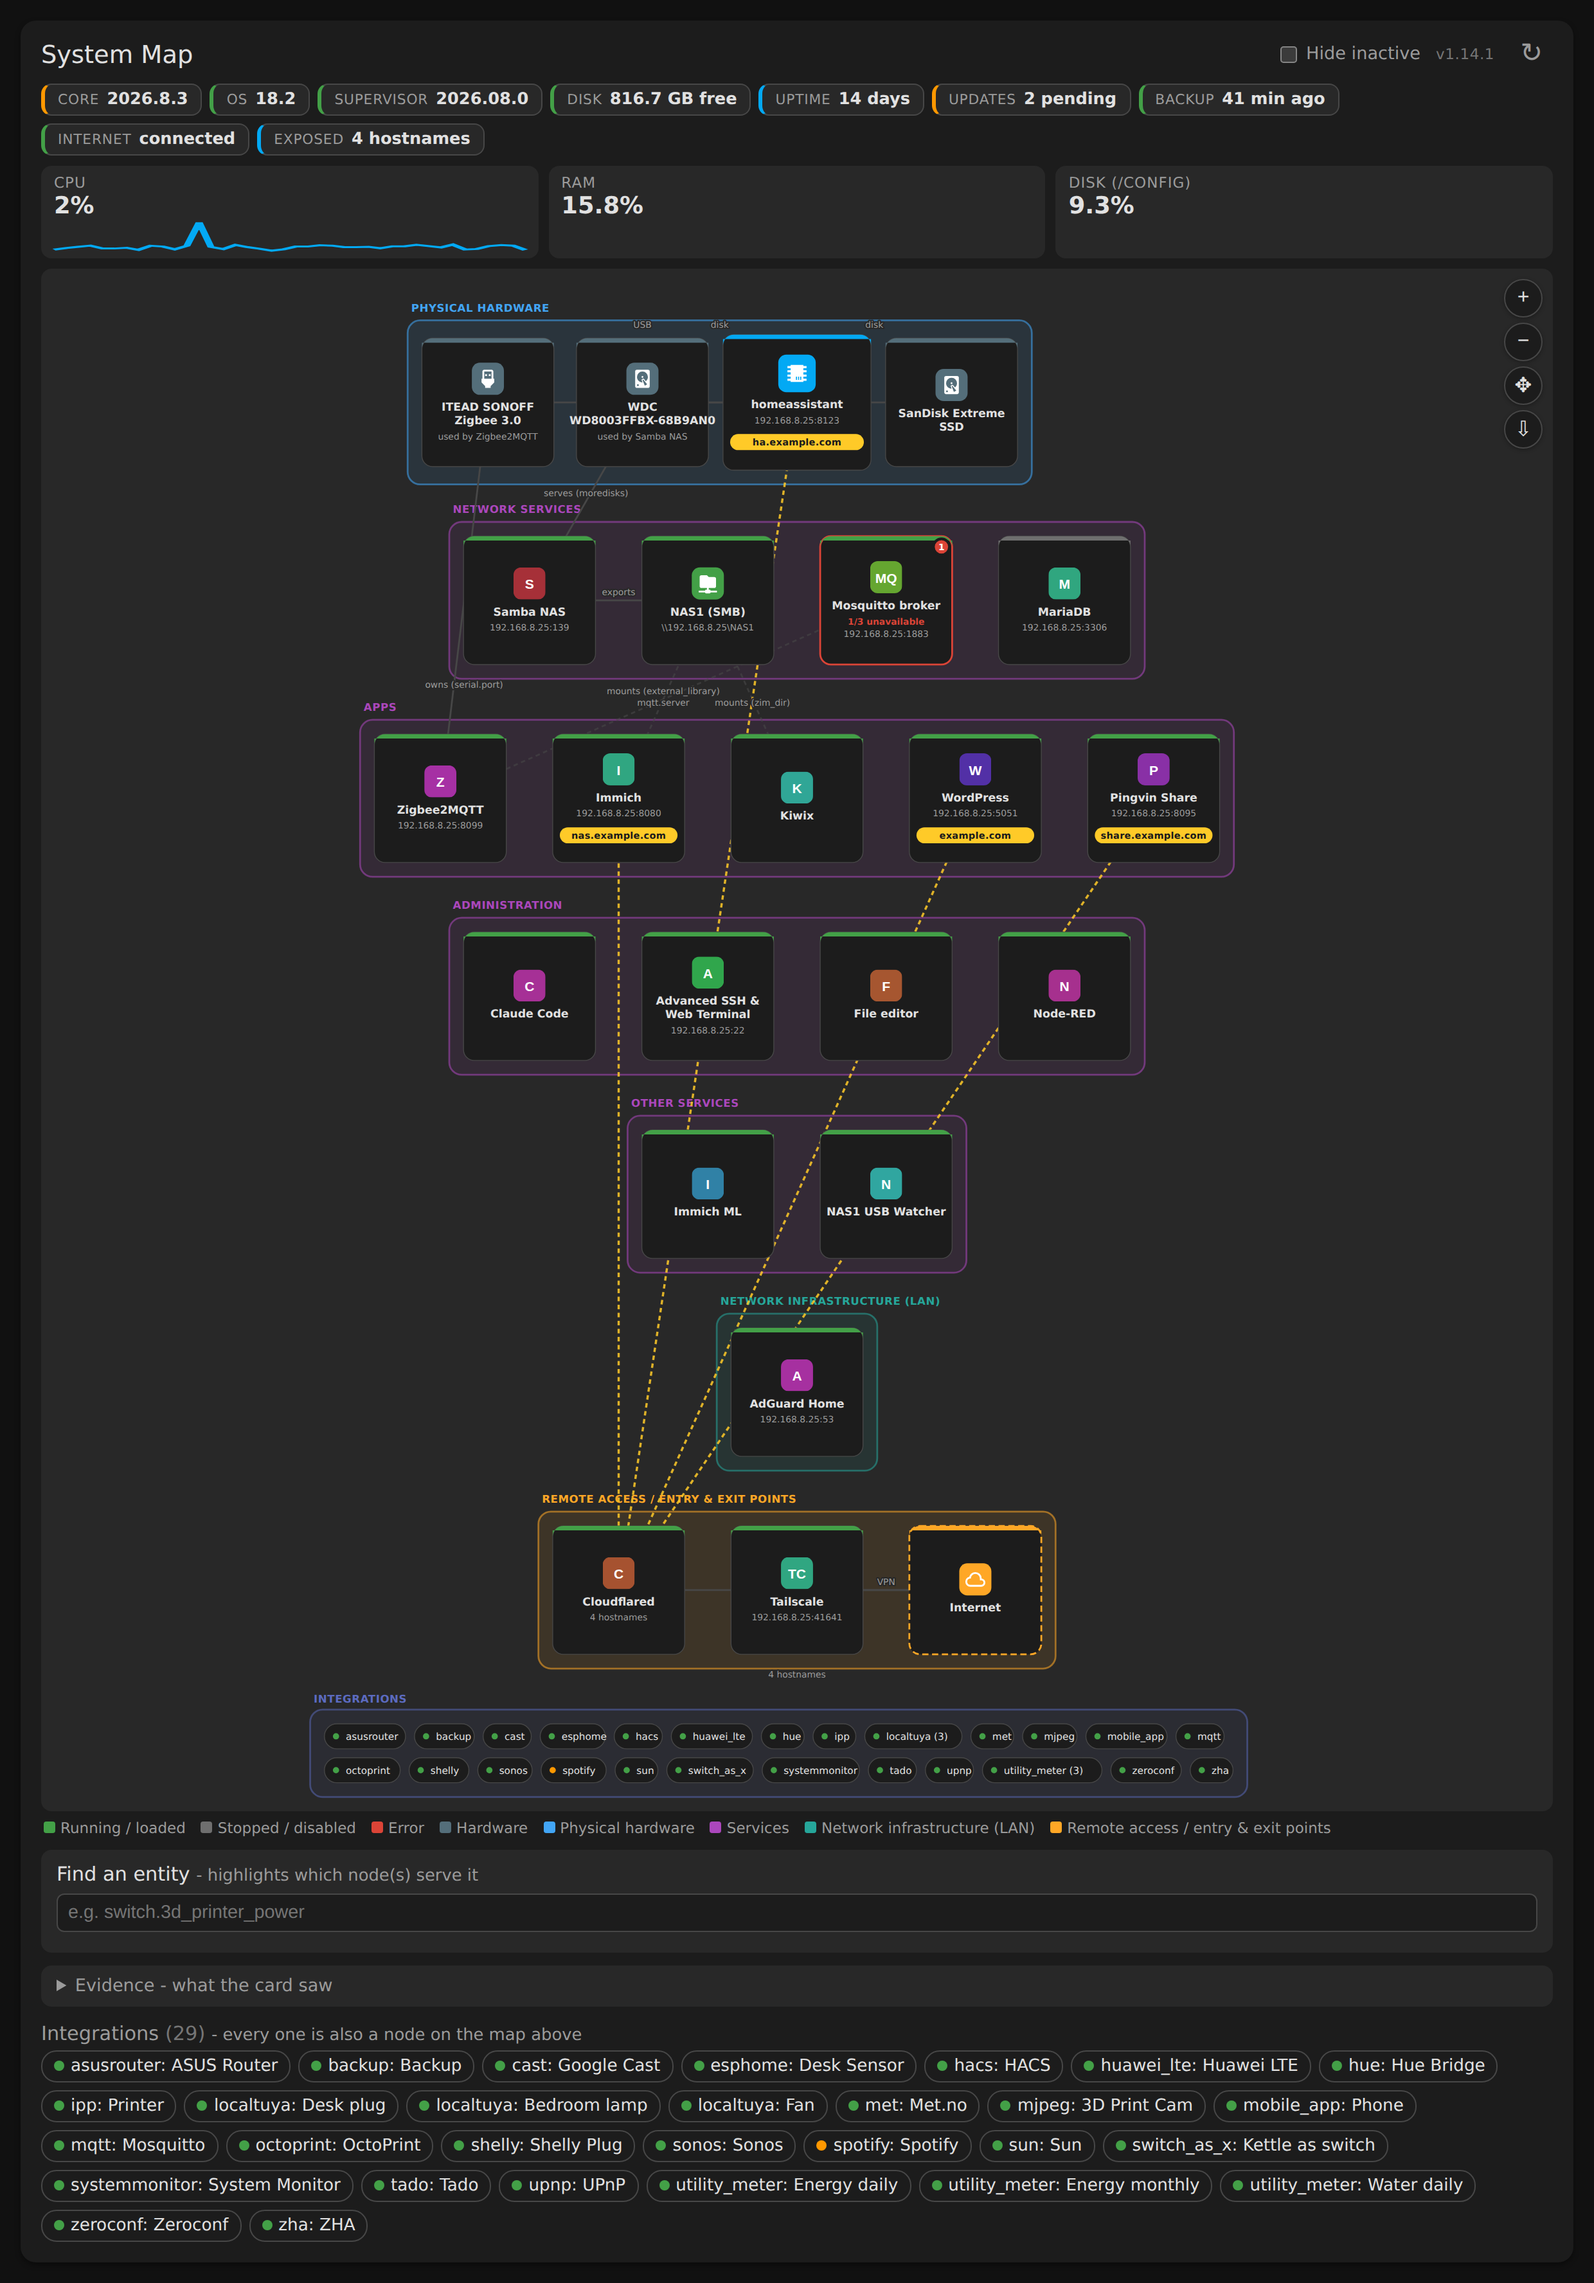
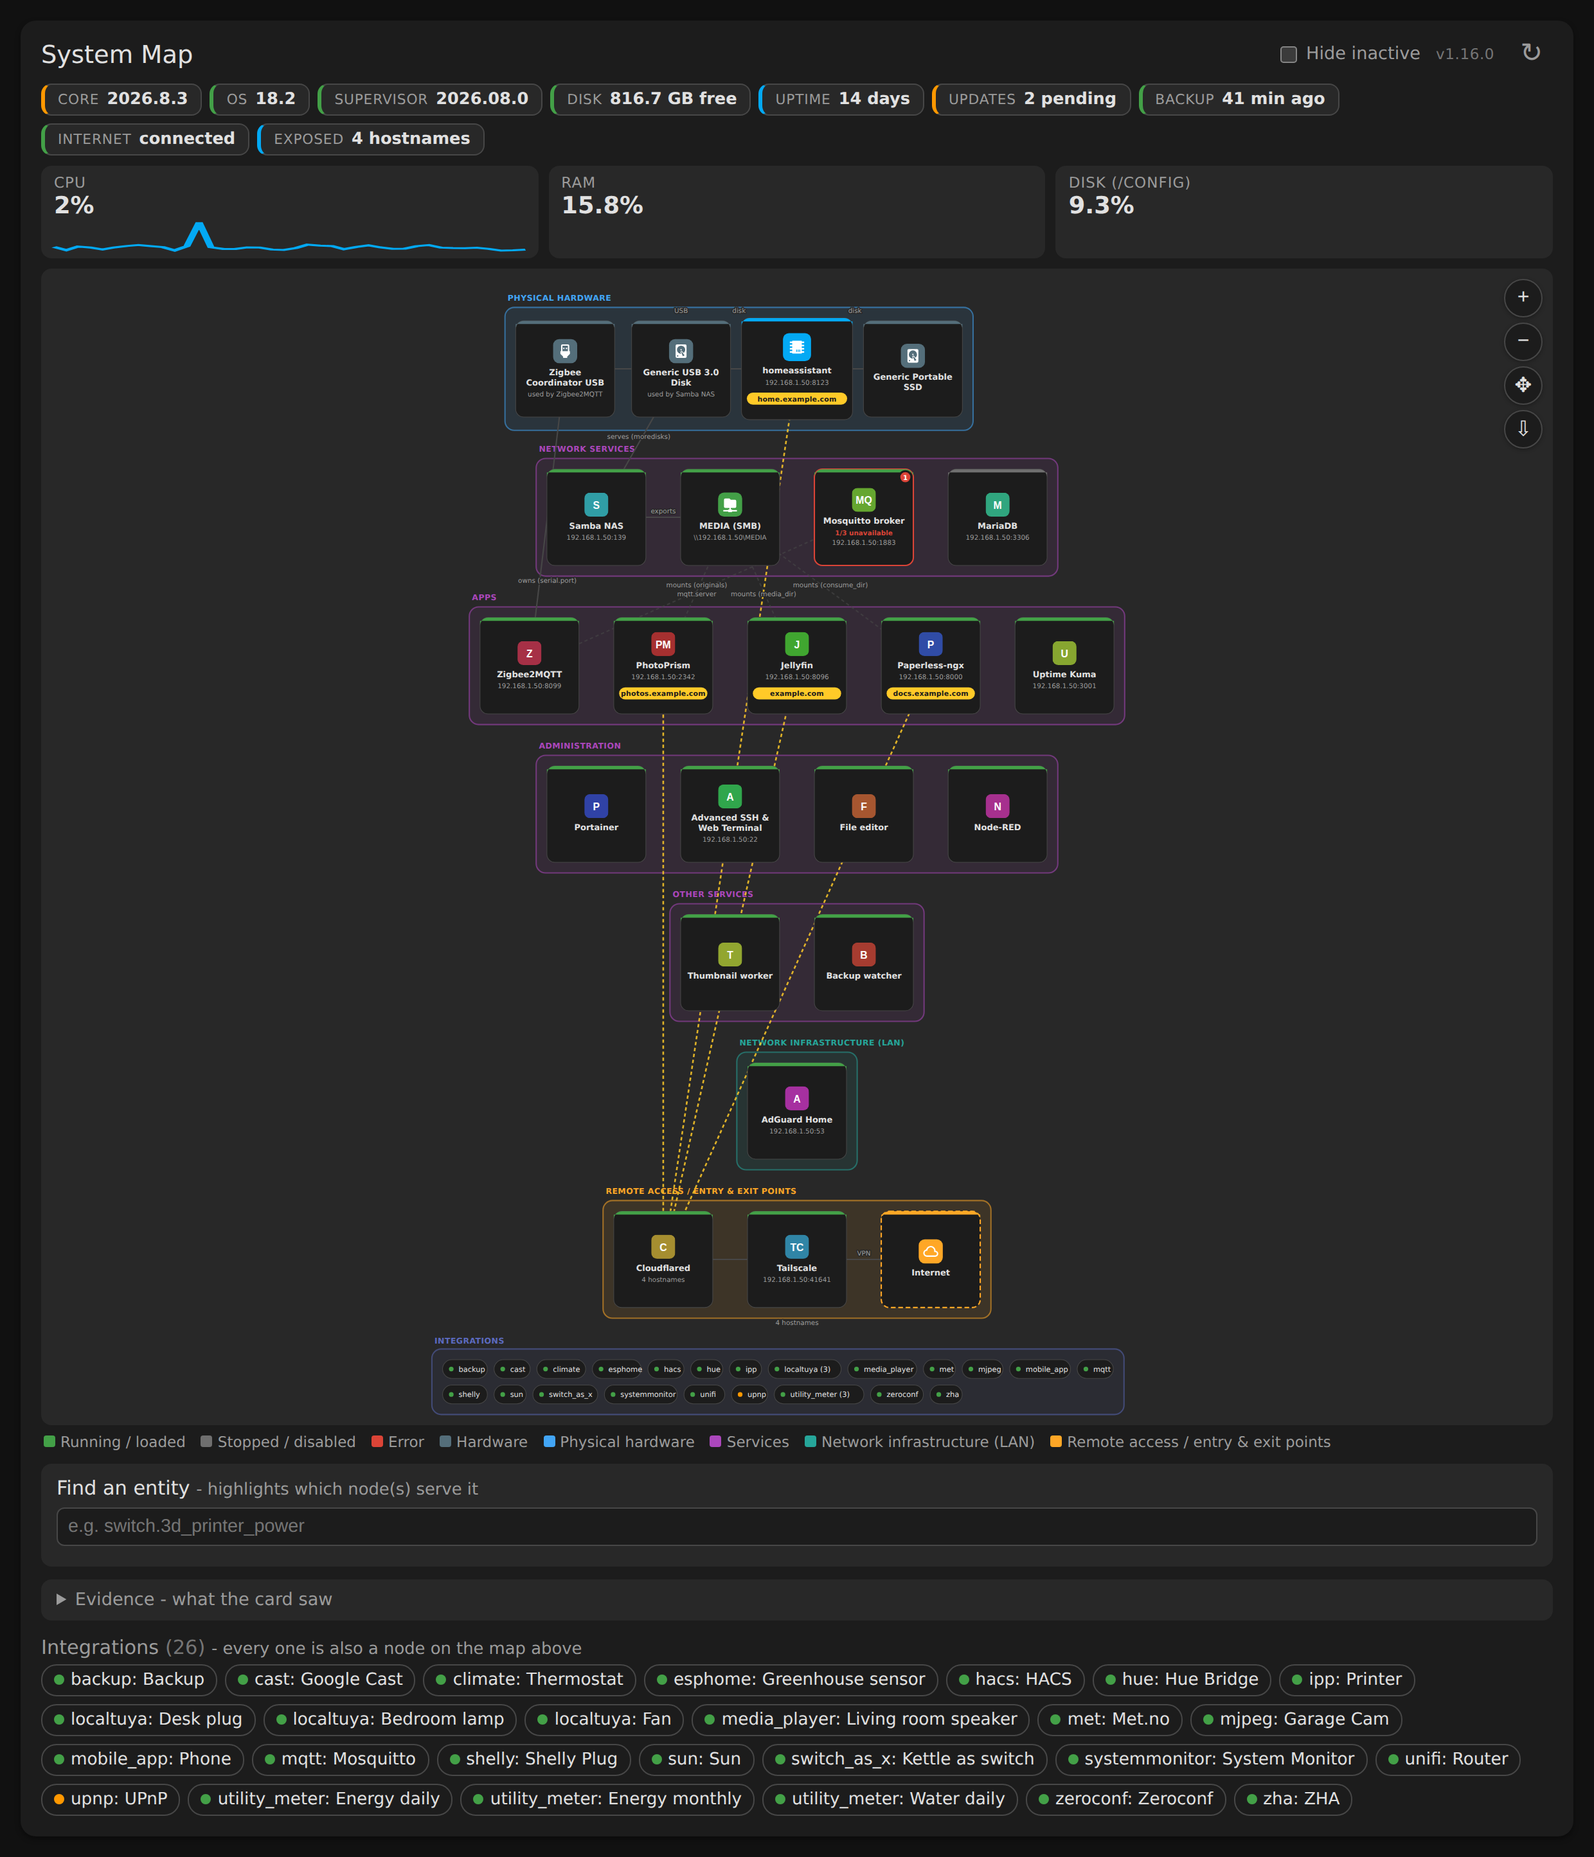
Make the screenshot fixtures an invented install, not a real one
The README render was drawn from fixtures that mirrored a real homelab: its
add-on lineup and repository slugs, its LAN subnet, its drive models, the
hostnames its tunnel exposes. The image is the first thing anyone sees on
the repository page, and none of that needed to be in it.

The fixtures now describe an imagined install - a different set of add-ons
covering the same categories, generic drives, 192.168.1.50, example.com
hostnames - so the shot still exercises every part of the map (the SMB
republish chain, tunnel routes, a stopped add-on, a dead entity, merged
per-device integrations) without describing anyone's system. The same
substitutions are applied to the unit-test fixtures, along with the
cloudflared tunnel UUID that had been copied from a real log.

Claude-Session: https://claude.ai/code/session_01FqwBkSt361sHXsLq6iLHHU

Changed region(s): [[0.031, 0.0, 0.9315, 0.9965], [0.9315, 0.1557, 0.9625, 0.218]]

diff --git a/system-map-card.js b/system-map-card.js
@@ -423,7 +423,7 @@ const DOMAIN_SERVICE_PORTS = {
 // A tunnel's ingress rules point at addresses on this network. Recognising
 // them must not depend on /network/info having answered, or on the rule
 // naming the same interface the Supervisor reports - so any private address
-// counts. This is what makes "http://192.168.8.25:8080" resolvable on an
+// counts. This is what makes "http://192.168.1.50:8080" resolvable on an
 // instance where the network endpoint returned nothing useful.
 function isPrivateAddress(host) {
   return (
@@ -706,7 +706,7 @@ const GRID_START_Y = 1180; // first auto-grid sits below the curated layout
 const SUPERVISOR_KEYS = new Set(["addons", "host", "core", "os", "supervisor", "network", "backups", "hardware"]);
 
 // A node is a card, not a circle. 148 wide is set by the longest thing it
-// has to hold legibly - a hostname like "share.nicholastoo.com" at 9.5px -
+// has to hold legibly - a hostname like "share.example.com" at 9.5px -
 // since a truncated hostname defeats the point of showing one at all.
 const CARD_W = 148;
 const CARD_H = 144;
@@ -2511,7 +2511,7 @@ class SystemMapCard extends HTMLElement {
     // Optional, and off by default because it means reading every running
     // add-on's whole log. An add-on logs the services it dials at startup -
     // Immich announces its machine-learning sidecar as
-    // "became healthy (http://192.168.8.25:3004)" - and that host:port
+    // "became healthy (http://192.168.1.50:3004)" - and that host:port
     // resolves to another add-on exactly as a tunnel's ingress rule does.
     if (!this._config.scan_service_logs) return;
     const dialled = [];

diff --git a/CHANGELOG.md b/CHANGELOG.md
@@ -422,7 +422,7 @@ both silent:
   the rule names, every rule was rejected as "somewhere else" and no service
   got a hostname. Any private address (RFC1918, loopback, link-local, unique
   local IPv6) is now recognised as this machine on its own merits - a tunnel
-  ingress rule pointing at `192.168.8.25` needs no corroboration.
+  ingress rule pointing at `192.168.1.50` needs no corroboration.
 - **A remotely-managed tunnel can have empty options**, since it is
   configured entirely outside Home Assistant. Log reading was gated on an
   add-on's options naming a tunnel, so such an add-on was skipped and its
@@ -457,7 +457,7 @@ built for one add-on:
   implies its own port, and SMB is 445 wherever it runs. Any add-on whose
   role is known now falls back to that role's port.
 - **The share node** named the add-on serving it but not where to reach it.
-  It now shows the address you would actually type, `\\192.168.8.25\NAS1`.
+  It now shows the address you would actually type, `\\192.168.1.50\NAS1`.
 
 Both rules are now asserted over every node rather than for a named add-on,
 since "it works for Immich" was true the whole time these three were blank.
@@ -477,7 +477,7 @@ since "it works for Immich" was true the whole time these three were blank.
   derived from what it does.
 - **Local and public reachability are both on the map.** "On the LAN" and
   "also reachable from outside" are different facts, so each gets a line
-  under the node: Immich reads `192.168.8.25:8080` and `nas.example.com`, one
+  under the node: Immich reads `192.168.1.50:8080` and `nas.example.com`, one
   above the other. A problem still takes the first line, since that outranks
   both.
 
@@ -580,7 +580,7 @@ node, and no hostnames on anything".
 - **Service links from logs** (`scan_service_logs`, off by default). An
   add-on often announces what it depends on at runtime rather than in its
   options - Immich reports its machine-learning sidecar as "became healthy
-  (http://192.168.8.25:3004)" - and that host:port resolves to another add-on
+  (http://192.168.1.50:3004)" - and that host:port resolves to another add-on
   exactly as a tunnel's ingress rule does. Off by default because it means
   reading every running add-on's whole log. Only the host and port are ever
   taken from a log line, and a URL carrying credentials is skipped outright
